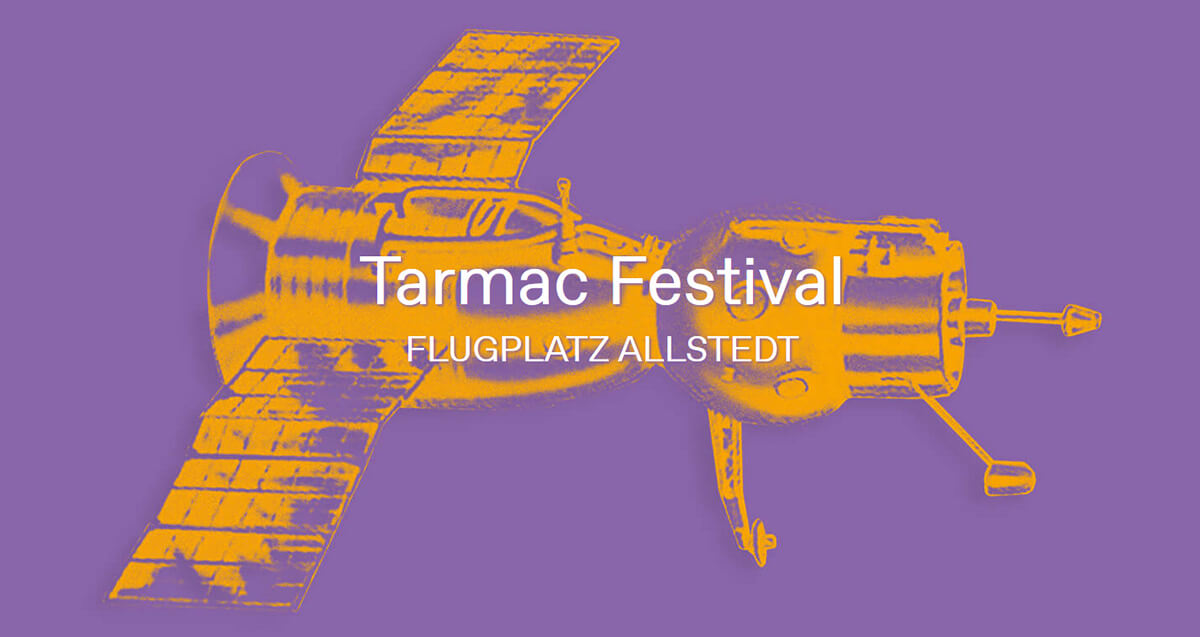
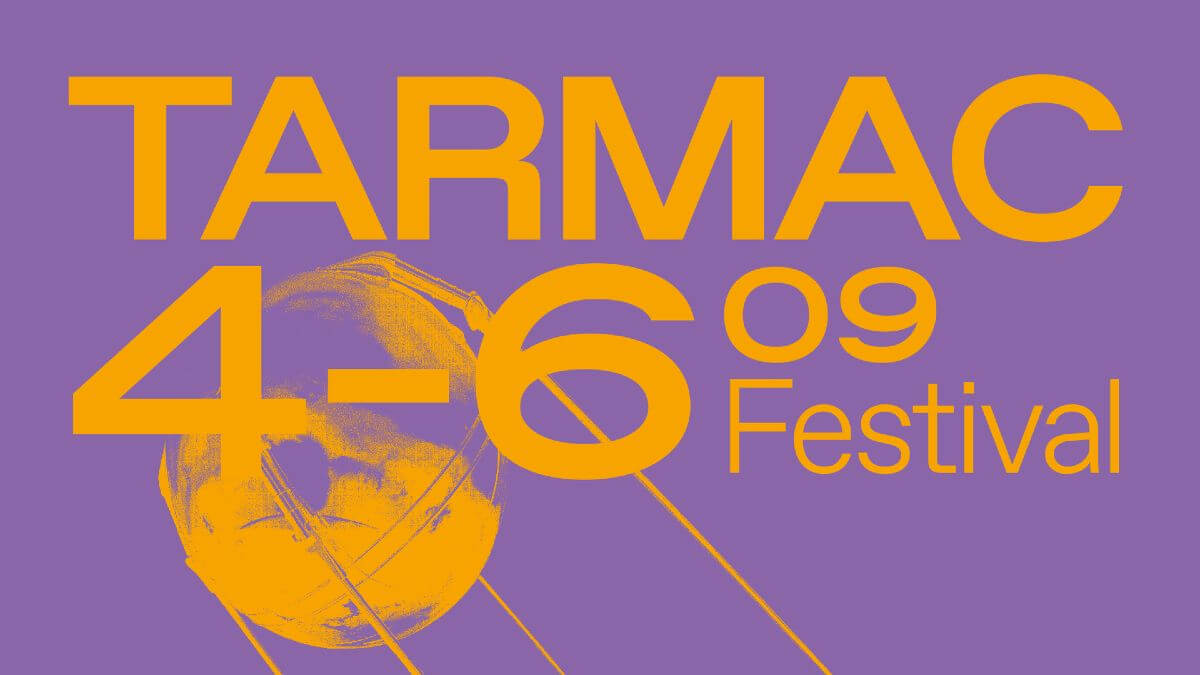
adjusted cover

diff --git a/public/css/festival.min.css b/public/css/festival.min.css
@@ -12,4 +12,4 @@
  * Copyright 2011-2019 Twitter, Inc.
  * Licensed under MIT (https://github.com/twbs/bootstrap/blob/master/LICENSE)
  * Forked from Normalize.css, licensed MIT (https://github.com/necolas/normalize.css/blob/master/LICENSE.md)
- */*,::after,::before{-webkit-box-sizing:border-box;box-sizing:border-box}html{font-family:sans-serif;line-height:1.15;-webkit-text-size-adjust:100%;-webkit-tap-highlight-color:transparent}article,aside,figcaption,figure,footer,header,hgroup,main,nav,section{display:block}body{margin:0;font-family:-apple-system,BlinkMacSystemFont,"Segoe UI",Roboto,"Helvetica Neue",Arial,"Noto Sans",sans-serif,"Apple Color Emoji","Segoe UI Emoji","Segoe UI Symbol","Noto Color Emoji";font-size:1rem;font-weight:400;line-height:1.5;color:#212529;text-align:left;background-color:#fff}[tabindex="-1"]:focus:not(:focus-visible){outline:0!important}hr{-webkit-box-sizing:content-box;box-sizing:content-box;height:0;overflow:visible}h1,h2,h3,h4,h5,h6{margin-top:0;margin-bottom:.5rem}p{margin-top:0;margin-bottom:1rem}abbr[data-original-title],abbr[title]{text-decoration:underline;-webkit-text-decoration:underline dotted;text-decoration:underline dotted;cursor:help;border-bottom:0;text-decoration-skip-ink:none}address{margin-bottom:1rem;font-style:normal;line-height:inherit}dl,ol,ul{margin-top:0;margin-bottom:1rem}ol ol,ol ul,ul ol,ul ul{margin-bottom:0}dt{font-weight:700}dd{margin-bottom:.5rem;margin-left:0}blockquote{margin:0 0 1rem}b,strong{font-weight:bolder}small{font-size:80%}sub,sup{position:relative;font-size:75%;line-height:0;vertical-align:baseline}sub{bottom:-.25em}sup{top:-.5em}a{color:#ececec;text-decoration:none;background-color:transparent}a:hover{color:#c6c6c6;text-decoration:underline}a:not([href]){color:inherit;text-decoration:none}a:not([href]):hover{color:inherit;text-decoration:none}code,kbd,pre,samp{font-family:SFMono-Regular,Menlo,Monaco,Consolas,"Liberation Mono","Courier New",monospace;font-size:1em}pre{margin-top:0;margin-bottom:1rem;overflow:auto}figure{margin:0 0 1rem}img{vertical-align:middle;border-style:none}svg{overflow:hidden;vertical-align:middle}table{border-collapse:collapse}caption{padding-top:.75rem;padding-bottom:.75rem;color:#868e96;text-align:left;caption-side:bottom}th{text-align:inherit}label{display:inline-block;margin-bottom:.5rem}button{border-radius:0}button:focus{outline:1px dotted;outline:5px auto -webkit-focus-ring-color}button,input,optgroup,select,textarea{margin:0;font-family:inherit;font-size:inherit;line-height:inherit}button,input{overflow:visible}button,select{text-transform:none}select{word-wrap:normal}[type=button],[type=reset],[type=submit],button{-webkit-appearance:button}[type=button]:not(:disabled),[type=reset]:not(:disabled),[type=submit]:not(:disabled),button:not(:disabled){cursor:pointer}[type=button]::-moz-focus-inner,[type=reset]::-moz-focus-inner,[type=submit]::-moz-focus-inner,button::-moz-focus-inner{padding:0;border-style:none}input[type=checkbox],input[type=radio]{-webkit-box-sizing:border-box;box-sizing:border-box;padding:0}input[type=date],input[type=datetime-local],input[type=month],input[type=time]{-webkit-appearance:listbox}textarea{overflow:auto;resize:vertical}fieldset{min-width:0;padding:0;margin:0;border:0}legend{display:block;width:100%;max-width:100%;padding:0;margin-bottom:.5rem;font-size:1.5rem;line-height:inherit;color:inherit;white-space:normal}progress{vertical-align:baseline}[type=number]::-webkit-inner-spin-button,[type=number]::-webkit-outer-spin-button{height:auto}[type=search]{outline-offset:-2px;-webkit-appearance:none}[type=search]::-webkit-search-decoration{-webkit-appearance:none}::-webkit-file-upload-button{font:inherit;-webkit-appearance:button}output{display:inline-block}summary{display:list-item;cursor:pointer}template{display:none}[hidden]{display:none!important}body{overflow-x:hidden;font-family:'Favorit Std Light',serif;font-style:normal}p{line-height:1.75}a{color:#f6a300}a:hover{color:#c38100}.text-primary{color:#f6a300!important}.text-muted{color:#495057!important}.lead{color:#495057}h1,h2,h3,h4,h5,h6{font-weight:700;font-family:'Favorit Std Light',serif;font-style:normal}section{padding:100px 0}section h2.section-heading{font-size:40px;margin-top:0;margin-bottom:15px}section h3.section-subheading{font-size:16px;font-weight:400;font-style:italic;text-transform:none;font-family:'Favorit Std Light',serif;font-style:normal}section .title-box{margin-bottom:3rem}ul.social-buttons li a{line-height:40px;width:40px;height:40px;text-align:center;font-size:20px;display:block;color:#fff!important;border-radius:100%;outline:0;background-color:#f6a300}ul.social-buttons li a:active,ul.social-buttons li a:focus,ul.social-buttons li a:hover{background-color:#d08a00}.btn{font-family:'Favorit Std Light',serif;font-style:normal;font-weight:700}.btn-xl{font-size:18px;padding:15px 20px}.btn-primary{color:#fff!important;background-color:#f6a300;border-color:#f6a300}.btn-primary:active,.btn-primary:focus,.btn-primary:hover{color:#fff;background-color:#d08a00!important;border-color:#d08a00!important}.btn-primary:active,.btn-primary:focus{-webkit-box-shadow:0 0 0 .2rem #aa7000!important;box-shadow:0 0 0 .2rem #aa7000!important}.modal-footer,.modal-header{padding-left:2rem;padding-right:2rem}.modal-footer>*,.modal-header>*{margin:0}::-moz-selection{background:#f6a300;text-shadow:none}::selection{background:#f6a300;text-shadow:none}img::-moz-selection{background:0 0}img::selection{background:0 0}img::-moz-selection{background:0 0}@media (min-width:768px){section{padding:150px 0}section h2.section-heading{font-size:45px}.btn-xl{padding:20px 40px}}#mainNav{background-color:#010101}#mainNav .navbar-toggler{font-size:12px;right:0;padding:13px;text-transform:uppercase;color:#fff;border:0;background-color:#f6a300;font-family:'Favorit Std Light',serif;font-style:normal}#mainNav .navbar-brand{color:#f6a300;font-family:'Favorit Std Light',serif;font-style:normal}#mainNav .navbar-brand.active,#mainNav .navbar-brand:active,#mainNav .navbar-brand:focus,#mainNav .navbar-brand:hover{color:#d08a00}#mainNav .navbar-nav .nav-item .nav-link{font-size:90%;font-weight:400;padding:.75em 0;letter-spacing:1px;color:#fff;font-family:'Favorit Std Light',serif;font-style:normal}#mainNav .navbar-nav .nav-item .nav-link.active,#mainNav .navbar-nav .nav-item .nav-link:hover{color:#f6a300}#mainNav .navbar-nav .nav-item .nav-btn{padding-top:.55em!important;padding-bottom:.55em!important;padding-right:0!important}@media (min-width:992px){#mainNav{padding-top:25px;padding-bottom:25px;-webkit-transition:padding-top .3s,padding-bottom .3s;transition:padding-top .3s,padding-bottom .3s;border:none;background-color:transparent}#mainNav .navbar-brand{font-size:2em;-webkit-transition:all .3s;transition:all .3s}#mainNav .navbar-nav .nav-item .nav-link{padding:1.1em 1em!important}#mainNav .navbar-nav .nav-item .nav-btn{padding-top:.55em!important;padding-bottom:.55em!important;padding-right:0!important}#mainNav.navbar-shrink{padding-top:0;padding-bottom:0;background-color:#010101}#mainNav.navbar-shrink .navbar-brand{font-size:1.25em;padding:12px 0}}header.masthead{height:100vh;text-align:center;color:#fff;background-image:url(../img/header-bg.jpg);background-repeat:no-repeat;background-attachment:scroll;background-position:center center;background-size:cover}header.masthead .intro-text{text-transform:uppercase;padding-top:40vh;text-shadow:2px 2px 3px #8a65a8}header.masthead .intro-text .intro-lead-in{font-size:60px;font-weight:700;line-height:60px;margin-bottom:25px;font-family:'Favorit Std Light',serif;font-style:normal}header.masthead .intro-text .intro-heading{font-size:35px;font-weight:700;line-height:35px;margin-bottom:25px;font-family:'Favorit Std Light',serif;font-style:normal}header.masthead .intro-text .down{border-radius:100%;width:46px;height:46px}@media (min-width:768px){header.masthead .intro-text{padding-top:42vh}header.masthead .intro-text .intro-lead-in{font-size:65px;line-height:65px;margin-bottom:20px}header.masthead .intro-text .intro-heading{font-size:40px;font-weight:700;line-height:40px;margin-bottom:50px}}.info-box{background-color:#fff;padding:2.5rem 1.3rem;height:100%;border-radius:1rem;-webkit-box-shadow:0 13px 8px -10px rgba(0,0,0,.1);box-shadow:0 13px 8px -10px rgba(0,0,0,.1)}.info-box .info-title{font-size:1.4rem;text-transform:uppercase;text-align:center;padding:.4rem 0}.info-box hr.divider{max-width:3.25rem;border-width:.2rem;border-color:#f6a300}.collective{padding:20px 0}.collective img{max-height:125px;max-width:125px}section#contact{background-color:#ececec}section#contact .box-shadow-full{padding:3rem;position:relative;background-color:#fff;z-index:2;-webkit-box-shadow:0 1px 1px 0 rgba(0,0,0,.06),0 2px 5px 0 rgba(0,0,0,.2);box-shadow:0 1px 1px 0 rgba(0,0,0,.06),0 2px 5px 0 rgba(0,0,0,.2)}section#contact .title-left:before{content:'';position:absolute;height:3px;background-color:#f6a300;width:100px;bottom:-12px}section#contact .title-box{position:relative;margin-bottom:3rem}section#contact .form-control{color:#212529}section#contact .form-control:focus{border-color:#f6a300;-webkit-box-shadow:none;box-shadow:none}section#contact .list-ico{line-height:2;list-style:none;padding-left:0;margin-bottom:0}section#contact .list-ico i{margin-right:10px}section#contact .custom-control-input:checked~.custom-control-label::before{border-color:#f6a300;background-color:#f6a300}section#contact .custom-control-input:focus~.custom-control-label::before{-webkit-box-shadow:0 0 0;box-shadow:0 0 0;border-color:#f6a300}section#contact small{color:#868e96}section#contact .spinner-border-sm{width:1.5rem;height:1.5rem}section#contact .btn-primary:disabled{background-color:#ffc85d;border-color:#ffc85d}section#contact .tox-tinymce{border:1px solid #ced4da;border-radius:.25rem}section#contact .mce-content-body{color:#495057}footer{padding:50px 0;text-align:center}footer span.copyright{font-size:90%;line-height:40px;text-transform:none;font-family:'Favorit Std Light',serif;font-style:normal}footer ul.quicklinks{font-size:90%;line-height:50px;margin-bottom:0;text-transform:none;font-family:'Favorit Std Light',serif;font-style:normal}footer ul.social-buttons{margin-bottom:0}footer ul.social-buttons li a{line-height:50px;width:50px;height:50px}#cookie-bar{background:#010101;height:auto;line-height:24px;color:#eee;text-align:center;padding:3px 0}#cookie-bar.fixed{position:fixed;top:0;left:0;width:100%}#cookie-bar.fixed.bottom{bottom:0;top:auto}#cookie-bar p{margin:0;padding:0}#cookie-bar a{color:#fff;display:inline-block;border-radius:3px;text-decoration:none;padding:0 6px;margin-left:8px}#cookie-bar .cb-enable{background:#f6a300}#cookie-bar .cb-enable:hover{background:#d08a00}#cookie-bar .cb-disable{background:#900}#cookie-bar .cb-disable:hover{background:#b00}#cookie-bar .cb-policy{background:#ececec;color:#010101}#cookie-bar .cb-policy:hover{background:#d9d9d9}
+ */*,::after,::before{-webkit-box-sizing:border-box;box-sizing:border-box}html{font-family:sans-serif;line-height:1.15;-webkit-text-size-adjust:100%;-webkit-tap-highlight-color:transparent}article,aside,figcaption,figure,footer,header,hgroup,main,nav,section{display:block}body{margin:0;font-family:-apple-system,BlinkMacSystemFont,"Segoe UI",Roboto,"Helvetica Neue",Arial,"Noto Sans",sans-serif,"Apple Color Emoji","Segoe UI Emoji","Segoe UI Symbol","Noto Color Emoji";font-size:1rem;font-weight:400;line-height:1.5;color:#212529;text-align:left;background-color:#fff}[tabindex="-1"]:focus:not(:focus-visible){outline:0!important}hr{-webkit-box-sizing:content-box;box-sizing:content-box;height:0;overflow:visible}h1,h2,h3,h4,h5,h6{margin-top:0;margin-bottom:.5rem}p{margin-top:0;margin-bottom:1rem}abbr[data-original-title],abbr[title]{text-decoration:underline;-webkit-text-decoration:underline dotted;text-decoration:underline dotted;cursor:help;border-bottom:0;text-decoration-skip-ink:none}address{margin-bottom:1rem;font-style:normal;line-height:inherit}dl,ol,ul{margin-top:0;margin-bottom:1rem}ol ol,ol ul,ul ol,ul ul{margin-bottom:0}dt{font-weight:700}dd{margin-bottom:.5rem;margin-left:0}blockquote{margin:0 0 1rem}b,strong{font-weight:bolder}small{font-size:80%}sub,sup{position:relative;font-size:75%;line-height:0;vertical-align:baseline}sub{bottom:-.25em}sup{top:-.5em}a{color:#ececec;text-decoration:none;background-color:transparent}a:hover{color:#c6c6c6;text-decoration:underline}a:not([href]){color:inherit;text-decoration:none}a:not([href]):hover{color:inherit;text-decoration:none}code,kbd,pre,samp{font-family:SFMono-Regular,Menlo,Monaco,Consolas,"Liberation Mono","Courier New",monospace;font-size:1em}pre{margin-top:0;margin-bottom:1rem;overflow:auto}figure{margin:0 0 1rem}img{vertical-align:middle;border-style:none}svg{overflow:hidden;vertical-align:middle}table{border-collapse:collapse}caption{padding-top:.75rem;padding-bottom:.75rem;color:#868e96;text-align:left;caption-side:bottom}th{text-align:inherit}label{display:inline-block;margin-bottom:.5rem}button{border-radius:0}button:focus{outline:1px dotted;outline:5px auto -webkit-focus-ring-color}button,input,optgroup,select,textarea{margin:0;font-family:inherit;font-size:inherit;line-height:inherit}button,input{overflow:visible}button,select{text-transform:none}select{word-wrap:normal}[type=button],[type=reset],[type=submit],button{-webkit-appearance:button}[type=button]:not(:disabled),[type=reset]:not(:disabled),[type=submit]:not(:disabled),button:not(:disabled){cursor:pointer}[type=button]::-moz-focus-inner,[type=reset]::-moz-focus-inner,[type=submit]::-moz-focus-inner,button::-moz-focus-inner{padding:0;border-style:none}input[type=checkbox],input[type=radio]{-webkit-box-sizing:border-box;box-sizing:border-box;padding:0}input[type=date],input[type=datetime-local],input[type=month],input[type=time]{-webkit-appearance:listbox}textarea{overflow:auto;resize:vertical}fieldset{min-width:0;padding:0;margin:0;border:0}legend{display:block;width:100%;max-width:100%;padding:0;margin-bottom:.5rem;font-size:1.5rem;line-height:inherit;color:inherit;white-space:normal}progress{vertical-align:baseline}[type=number]::-webkit-inner-spin-button,[type=number]::-webkit-outer-spin-button{height:auto}[type=search]{outline-offset:-2px;-webkit-appearance:none}[type=search]::-webkit-search-decoration{-webkit-appearance:none}::-webkit-file-upload-button{font:inherit;-webkit-appearance:button}output{display:inline-block}summary{display:list-item;cursor:pointer}template{display:none}[hidden]{display:none!important}body{overflow-x:hidden;font-family:'Favorit Std Light',serif;font-style:normal}p{line-height:1.75}a{color:#f6a300}a:hover{color:#c38100}.text-primary{color:#f6a300!important}.text-muted{color:#495057!important}.lead{color:#495057}h1,h2,h3,h4,h5,h6{font-weight:700;font-family:'Favorit Std Light',serif;font-style:normal}section{padding:100px 0}section h2.section-heading{font-size:40px;margin-top:0;margin-bottom:15px}section h3.section-subheading{font-size:16px;font-weight:400;font-style:italic;text-transform:none;font-family:'Favorit Std Light',serif;font-style:normal}section .title-box{margin-bottom:3rem}ul.social-buttons li a{line-height:40px;width:40px;height:40px;text-align:center;font-size:20px;display:block;color:#fff!important;border-radius:100%;outline:0;background-color:#f6a300}ul.social-buttons li a:active,ul.social-buttons li a:focus,ul.social-buttons li a:hover{background-color:#d08a00}.btn{font-family:'Favorit Std Light',serif;font-style:normal;font-weight:700}.btn-xl{font-size:18px;padding:15px 20px}.btn-primary{color:#fff!important;background-color:#f6a300;border-color:#f6a300}.btn-primary:active,.btn-primary:focus,.btn-primary:hover{color:#fff;background-color:#d08a00!important;border-color:#d08a00!important}.btn-primary:active,.btn-primary:focus{-webkit-box-shadow:0 0 0 .2rem #aa7000!important;box-shadow:0 0 0 .2rem #aa7000!important}.modal-footer,.modal-header{padding-left:2rem;padding-right:2rem}.modal-footer>*,.modal-header>*{margin:0}::-moz-selection{background:#f6a300;text-shadow:none}::selection{background:#f6a300;text-shadow:none}img::-moz-selection{background:0 0}img::selection{background:0 0}img::-moz-selection{background:0 0}@media (min-width:768px){section{padding:150px 0}section h2.section-heading{font-size:45px}.btn-xl{padding:20px 40px}}#mainNav{background-color:#010101}#mainNav .navbar-toggler{font-size:12px;right:0;padding:13px;text-transform:uppercase;color:#fff;border:0;background-color:#f6a300;font-family:'Favorit Std Light',serif;font-style:normal}#mainNav .navbar-brand{color:#f6a300;font-family:'Favorit Std Light',serif;font-style:normal}#mainNav .navbar-brand.active,#mainNav .navbar-brand:active,#mainNav .navbar-brand:focus,#mainNav .navbar-brand:hover{color:#d08a00}#mainNav .navbar-nav .nav-item .nav-link{font-size:90%;font-weight:400;padding:.75em 0;letter-spacing:1px;color:#fff;font-family:'Favorit Std Light',serif;font-style:normal}#mainNav .navbar-nav .nav-item .nav-link.active,#mainNav .navbar-nav .nav-item .nav-link:hover{color:#f6a300}#mainNav .navbar-nav .nav-item .nav-btn{padding-top:.55em!important;padding-bottom:.55em!important;padding-right:0!important}@media (min-width:992px){#mainNav{padding-top:25px;padding-bottom:25px;-webkit-transition:padding-top .3s,padding-bottom .3s;transition:padding-top .3s,padding-bottom .3s;border:none;background-color:transparent}#mainNav .navbar-brand{font-size:2em;-webkit-transition:all .3s;transition:all .3s}#mainNav .navbar-nav .nav-item .nav-link{padding:1.1em 1em!important}#mainNav .navbar-nav .nav-item .nav-btn{padding-top:.55em!important;padding-bottom:.55em!important;padding-right:0!important}#mainNav.navbar-shrink{padding-top:0;padding-bottom:0;background-color:#010101}#mainNav.navbar-shrink .navbar-brand{font-size:1.25em;padding:12px 0}}header.masthead{height:100vh;background-color:#8966aa}header.masthead .down{position:absolute;left:46%;bottom:15%;border-radius:100%;width:46px;height:46px}header.masthead .cover{margin:0 auto;max-width:100%;max-height:100%;-o-object-fit:contain;object-fit:contain}@media (min-width:768px){header.masthead .down{bottom:10%}}.info-box{background-color:#fff;padding:2.5rem 1.3rem;height:100%;border-radius:1rem;-webkit-box-shadow:0 13px 8px -10px rgba(0,0,0,.1);box-shadow:0 13px 8px -10px rgba(0,0,0,.1)}.info-box .info-title{font-size:1.4rem;text-transform:uppercase;text-align:center;padding:.4rem 0}.info-box hr.divider{max-width:3.25rem;border-width:.2rem;border-color:#f6a300}.collective{padding:20px 0}.collective img{max-height:125px;max-width:125px}section#contact{background-color:#ececec}section#contact .box-shadow-full{padding:3rem;position:relative;background-color:#fff;z-index:2;-webkit-box-shadow:0 1px 1px 0 rgba(0,0,0,.06),0 2px 5px 0 rgba(0,0,0,.2);box-shadow:0 1px 1px 0 rgba(0,0,0,.06),0 2px 5px 0 rgba(0,0,0,.2)}section#contact .title-left:before{content:'';position:absolute;height:3px;background-color:#f6a300;width:100px;bottom:-12px}section#contact .title-box{position:relative;margin-bottom:3rem}section#contact .form-control{color:#212529}section#contact .form-control:focus{border-color:#f6a300;-webkit-box-shadow:none;box-shadow:none}section#contact .list-ico{line-height:2;list-style:none;padding-left:0;margin-bottom:0}section#contact .list-ico i{margin-right:10px}section#contact .custom-control-input:checked~.custom-control-label::before{border-color:#f6a300;background-color:#f6a300}section#contact .custom-control-input:focus~.custom-control-label::before{-webkit-box-shadow:0 0 0;box-shadow:0 0 0;border-color:#f6a300}section#contact small{color:#868e96}section#contact .spinner-border-sm{width:1.5rem;height:1.5rem}section#contact .btn-primary:disabled{background-color:#ffc85d;border-color:#ffc85d}section#contact .tox-tinymce{border:1px solid #ced4da;border-radius:.25rem}section#contact .mce-content-body{color:#495057}footer{padding:50px 0;text-align:center}footer span.copyright{font-size:90%;line-height:40px;text-transform:none;font-family:'Favorit Std Light',serif;font-style:normal}footer ul.quicklinks{font-size:90%;line-height:50px;margin-bottom:0;text-transform:none;font-family:'Favorit Std Light',serif;font-style:normal}footer ul.social-buttons{margin-bottom:0}footer ul.social-buttons li a{line-height:50px;width:50px;height:50px}#cookie-bar{background:#010101;height:auto;line-height:24px;color:#eee;text-align:center;padding:3px 0}#cookie-bar.fixed{position:fixed;top:0;left:0;width:100%}#cookie-bar.fixed.bottom{bottom:0;top:auto}#cookie-bar p{margin:0;padding:0}#cookie-bar a{color:#fff;display:inline-block;border-radius:3px;text-decoration:none;padding:0 6px;margin-left:8px}#cookie-bar .cb-enable{background:#f6a300}#cookie-bar .cb-enable:hover{background:#d08a00}#cookie-bar .cb-disable{background:#900}#cookie-bar .cb-disable:hover{background:#b00}#cookie-bar .cb-policy{background:#ececec;color:#010101}#cookie-bar .cb-policy:hover{background:#d9d9d9}

diff --git a/public/index.html b/public/index.html
@@ -78,15 +78,12 @@
 </nav>
 
 <!-- Header -->
-<header class="masthead">
-    <div class="container">
-        <div class="intro-text">
-            <div class="intro-lead-in">Tarmac Festival</div>
-            <div class="intro-heading">Flugplatz Allstedt</div>
-            <a class="btn btn-primary down js-scroll-trigger mt-5" href="#about">
-                <i class="fas fa-angle-down fa-2x"></i>
-            </a>
-        </div>
+<header class="masthead d-flex">
+    <div class="container-fluid d-flex px-0">
+        <img alt="Tarmac Festival cover" src="img/header-bg.jpg" class="cover" />
+        <a class="btn btn-primary down js-scroll-trigger" href="#about">
+            <i class="fas fa-angle-down fa-2x"></i>
+        </a>
     </div>
 </header>
 
@@ -221,9 +218,9 @@
             <div class="col-md-6 col-12 mb-4">
                 <div class="info-box">
                     <div class="info-content">
-                        <h2 class="info-title">Unsere Tickets</h2>
+                        <h2 class="info-title">Tickets</h2>
                         <hr class="divider">
-                        <p class="lead text-center">Partybird Ticket</p>
+                        <p class="lead text-center">Partybird Ticket (50€)</p>
                         <p class="text-justify">
                             Du warst auf einer unserer Partys oder hast einen 10-stelligen Gewinncode über eine andere Aktion erhalten? Dann besteht für dich die Möglichkeit, eines der Partybird Tickets hier im Shop zu erwerben. Gib bei der Bestellung einfach den 10-stelligen Ticket Code ein und sichere dir ein Partybird Ticket!
                         </p>
@@ -241,7 +238,7 @@
             <div class="col-md-6 col-12 mb-4">
                 <div class="info-box">
                     <div class="info-content">
-                        <h2 class="info-title">Weitere Tickets</h2>
+                        <h2 class="info-title">Tickets</h2>
                         <hr class="divider">
                         <p class="lead text-center">Second Wave Ticket (80€)</p>
                         <p class="text-justify ">

diff --git a/public/css/festival.css b/public/css/festival.css
@@ -11318,59 +11318,29 @@ img::-moz-selection {
 
 header.masthead {
   height: 100vh;
-  text-align: center;
-  color: white;
-  background-image: url("../img/header-bg.jpg");
-  background-repeat: no-repeat;
-  background-attachment: scroll;
-  background-position: center center;
-  background-size: cover;
+  background-color: #8966aa;
 }
 
-header.masthead .intro-text {
-  text-transform: uppercase;
-  padding-top: 40vh;
-  text-shadow: 2px 2px 3px #8a65a8;
-}
-
-header.masthead .intro-text .intro-lead-in {
-  font-size: 60px;
-  font-weight: 700;
-  line-height: 60px;
-  margin-bottom: 25px;
-  font-family: 'Favorit Std Light', serif;
-  font-style: normal;
-}
-
-header.masthead .intro-text .intro-heading {
-  font-size: 35px;
-  font-weight: 700;
-  line-height: 35px;
-  margin-bottom: 25px;
-  font-family: 'Favorit Std Light', serif;
-  font-style: normal;
-}
-
-header.masthead .intro-text .down {
+header.masthead .down {
+  position: absolute;
+  left: 46%;
+  bottom: 15%;
   border-radius: 100%;
   width: 46px;
   height: 46px;
 }
 
+header.masthead .cover {
+  margin: 0 auto;
+  max-width: 100%;
+  max-height: 100%;
+  -o-object-fit: contain;
+  object-fit: contain;
+}
+
 @media (min-width: 768px) {
-  header.masthead .intro-text {
-    padding-top: 42vh;
-  }
-  header.masthead .intro-text .intro-lead-in {
-    font-size: 65px;
-    line-height: 65px;
-    margin-bottom: 20px;
-  }
-  header.masthead .intro-text .intro-heading {
-    font-size: 40px;
-    font-weight: 700;
-    line-height: 40px;
-    margin-bottom: 50px;
+  header.masthead .down {
+    bottom: 10%;
   }
 }
 

diff --git a/scss/_masthead.scss b/scss/_masthead.scss
@@ -1,53 +1,26 @@
 // Styling for the masthead
 header.masthead {
   height: 100vh;
-  text-align: center;
-  color: white;
-  background-image: url('../img/header-bg.jpg');
-  background-repeat: no-repeat;
-  background-attachment: scroll;
-  background-position: center center;
-  background-size: cover;
-  .intro-text {
-    text-transform: uppercase;
-    padding-top: 40vh;
-    text-shadow: 2px 2px 3px #8a65a8;
-    .intro-lead-in {
-      font-size: 60px;
-      font-weight: 700;
-      line-height: 60px;
-      margin-bottom: 25px;
-      @include heading-font;
-    }
-    .intro-heading {
-      font-size: 35px;
-      font-weight: 700;
-      line-height: 35px;
-      margin-bottom: 25px;
-      @include heading-font;
-    }
-    .down {
-      border-radius: 100%;
-      width: 46px;
-      height: 46px;
-    }
+  background-color: #8966aa;
+  .down {
+    position: absolute;
+    left: 46%;
+    bottom: 15%;
+    border-radius: 100%;
+    width: 46px;
+    height: 46px;
+  }
+  .cover {
+    margin: 0 auto;
+    max-width: 100%;
+    max-height: 100%;
+    object-fit: contain;
   }
 }
 @media(min-width:768px) {
   header.masthead {
-    .intro-text {
-      padding-top: 42vh;
-      .intro-lead-in {
-        font-size: 65px;
-        line-height: 65px;
-        margin-bottom: 20px;
-      }
-      .intro-heading {
-        font-size: 40px;
-        font-weight: 700;
-        line-height: 40px;
-        margin-bottom: 50px;
-      }
+    .down {
+      bottom: 10%;
     }
   }
 }

diff --git a/gulpfile.js b/gulpfile.js
@@ -44,14 +44,6 @@ gulp.task('vendor', function() {
       './node_modules/jquery.easing/*.js'
     ])
     .pipe(gulp.dest('./public/vendor/jquery-easing'));
-
-  // Bootstrap Select
-  gulp.src([
-      './node_modules/bootstrap-select/dist/**/*',
-      '!./node_modules/bootstrap-select/dist/js/i18n/*'
-  ])
-    .pipe(gulp.dest('./public/vendor/bootstrap-select'));
-
 });
 
 // Compile SCSS
